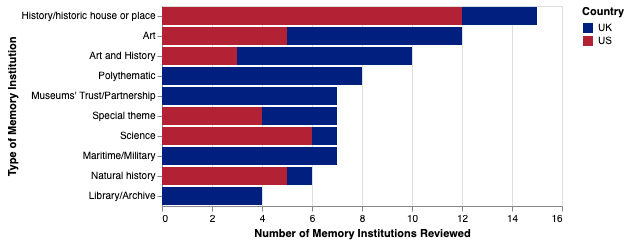
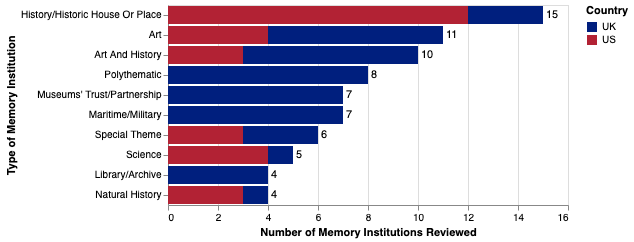
new images with numbers

Changed region(s): [[0.0, 0.0, 0.9952, 0.9835]]

diff --git a/EGauthorGuidelines-GCH2020-sub.tex b/EGauthorGuidelines-GCH2020-sub.tex
@@ -213,7 +213,7 @@ What type of analysis do we use and validity / triangulation (data triangulation
 \section{Data Capture}
 The data capture involved surveying memory institutions’ websites as described above. In total, we surveyed 77 memory institutions both in the UK and the US (48 institutions in the  UK and 29 institutions in the US). The selection included major institutions from both countries (e.g. based on visitor numbers in wikipedia) plus a selection of smaller civic, historic and/or city museums. For this additional selection, we made use of the National Museums Director Council in the UK \cite{nationalmuseums:2020}; and made a selection of smaller museums in different states of the US. For some memory institutions, which are aggregated under an umbrella trust, we surveyed the umbrella organisation as in most cases the COVID response is the same in smaller organisations as in the biggest one of the same consortium/trust (with one or two different resources sometimes).
 
-When surveying, researchers followed a strategy to identify what digital offering was deemed to be a COVID-19 response, as opposed to traditional website content. This was very difficult in some cases, as many institutions repurposed or sign-posted existing content as being COVID-19 relevant. This was not surprising given how relevant memory institutions are for the educational, wellbeing, and self-improving needs of communities. Thus, most organisations restructured their content to address the pandemic by creating COVID-19 “highlights” or “sliders” on their front pages. These new pages allowed users to reach a variety of relevant content instead of reaching the content through the traditional website menu structure. The variety of COVID-19 resources in each institution was vast, and researchers followed these highlighted routes to identify which digital offerings were relevant for the survey.
+When surveying, researchers followed a strategy to identify what digital offering was deemed to be a COVID-19 response, as opposed to traditional website content. This was very difficult in some cases, as many institutions re-purposed or sign-posted existing content as being COVID-19 relevant. This was not surprising given how relevant memory institutions are for the educational, well-being, and self-improving needs of communities. Thus, most organisations restructured their content to address the pandemic by creating COVID-19 “highlights” or “sliders” on their front pages. These new pages allowed users to reach a variety of relevant content instead of reaching the content through the traditional website menu structure. The variety of COVID-19 resources in each institution was vast, and researchers followed these highlighted routes to identify which digital offerings were relevant for the survey.
 
 Furthermore, it was not straightforward to identify the impact that the digital offering had on users. This is because it is difficult to measure access to web pages without having access to museums’ web teams. Exceptions are the number of views on websites such as YouTube, followers in social media, or number of downloads in sites such as SketchFab. However, even these were difficult to directly relate as being COVID-19 specific as most content was available before the lockdown. Instead we undertook a different approach by recording all URL to digital offerings. With these URLs, we were able to query the keywords made available on the web page titles and analyse the popularity of keywords in search queries in Google Search across various regions and languages. 
 
@@ -270,7 +270,7 @@ Also, Table~\ref{tab:digoffer} shows a subtype classification we designed to fur
 \end{table}
 
 \subsection{COVID-19 Audiences}
-As a means to understand which traditional and non-traditional audiences the digital offering which memory institutions provided was being targeted, we created a segmentation of COVID-19 relevant audiences. Although, it will have been possible to adapt existing segmentations used by institutions already \cite{Drot19}; instead we adopted Jones \cite{Audiences2020} proposed COVID-19 audience segmentation. This segmentation takes into account how digital offerings of memory institutions fulfill emotional needs of people affected by the pandemic. As such the classification distinguishes between people who have specific educational (e.g., teachers, learners, parents doing home schooling), wellbeing issues (e.g. lonely or grieving  people, bored), beyond traditional museum audiences (e.g. local community, internal and museum audiences). The types of audiences include: Bored people, Desperate parents \& children, Teachers at sea, Higher education/Professional teaching online, Eager learners, Stressed out/scared people, Grieving people, People who can’t stop working on their job sites, Museum constituencies (specific interest/core audiences for content), Museum members/donors, Local community, Lonely people, Working from Home / Newly unemployed, People wanting to help others, Internal audiences.
+As a means to understand which traditional and non-traditional audiences the digital offering which memory institutions provided was being targeted, we created a segmentation of COVID-19 relevant audiences. Although, it will have been possible to adapt existing segmentations used by institutions already \cite{Drot19}; instead we adopted Jones \cite{Audiences2020} proposed COVID-19 audience segmentation. This segmentation takes into account how digital offerings of memory institutions fulfil emotional needs of people affected by the pandemic. As such the classification distinguishes between people who have specific educational (e.g., teachers, learners, parents doing home schooling), well-being issues (e.g. lonely or grieving  people, bored), beyond traditional museum audiences (e.g. local community, internal and museum audiences). The types of audiences include: Bored people, Desperate parents \& children, Teachers at sea, Higher education/Professional teaching online, Eager learners, Stressed out/scared people, Grieving people, People who can’t stop working on their job sites, Museum constituencies (specific interest/core audiences for content), Museum members/donors, Local community, Lonely people, Working from Home / Newly unemployed, People wanting to help others, Internal audiences.
 
 \subsection{Digital Content}
 To further understand what the digital offering consists of, the survey recorded a description of the offering and a type of content. Although most webpages consists of text and image elements, we also recorded whether the offering included more complex data types, such as video (including live video stream), audio, 360º virtual tour and interactive panorama/VR/AR type experiences, 3D objects or interactive games and activities. The latter visual types of content were of particular interest, as they allow for audiences to engage more actively with the digital offering. They can either allow audiences to explore the collection, and/or to the exhibition physical space; for example, images of the collection, interactive panoramic tours,  behind the scenes audiovisual material, and virtual galleries/visit. Besides being a popular type of content, visual content has some advantages for audiences, such as being more inclusive to multiple understandings and interpretations, as well as overcoming communication barriers, such as language and attention barriers. However, it can also be less accessible for those with disabilities if the content has not been designed appropriately.
@@ -285,11 +285,16 @@ Beside the types previously described, data was also recorded - when available, 
 
 %-------------------------------------------------------------------------
 
-\section{Analysis of digital offering provision }
-The analysis of the data collected allowed us to explore in detail the digital offerings of memory institutions during the COVID-19 lockdown period in order to answer the research questions. To recap, these questions related to: 1) the types of digital offerings, and the nature of the content, which was available to audiences; 2) the types of audiences these offerings targeted; 4) the financial support seeked by museums from audiences; and 3) exploring how the digital offerings matched needs that emerged during the COVID-19 pandemic in particular with regards to peoples’ challenges, including isolation, mental wellbeing and inclusivity. The following subsections will analyse each of these elements, starting by an overview of the museums included in the survey.
+\section{Results of data analysis}
+The analysis of the data collected allowed us to explore in detail the digital offerings of memory institutions during the COVID-19 lockdown period in order to answer the research questions. To recap, these questions related to: 1) the types of digital offerings, and the nature of the content, which was available to audiences; 2) the types of audiences these offerings targeted; 4) the financial support sought by museums from audiences; and 3) exploring how the digital offerings matched needs that emerged during the COVID-19 pandemic in particular with regards to peoples’ challenges, including isolation, mental well-being and inclusivity. 
+
+A total of 874 digital offerings were recorded as offering relevant content for the COVID-19 lockdown amongst all memory institutions. This includes a total of 515 digital offerings in the UK, and 359 digital offerings in the US; with an average of 11 digital offerings per memory institutions. We reiterate that not all of this content was newly created, but could have been highlighted as relevant to the perceived needs of audiences. 
+
+
+The following subsections will analyse different aspects of the data including the memory institutions, the types of offerings, the audiences and financial issues.
 
 \subsection{Memory institutions surveyed}
-As Figure~\ref{fig:MType} illustrates the survey included a good mixture of museums which might be dealing with providing access to collection resources and exhibitions; as well as historic houses which might be dealing with enabling to experience the building itself and its history through the digital offering. 
+As Figure~\ref{fig:MType} illustrates the survey included a mixture of institutions ranging from History/Historic house or place (19\%), Art (14\%), Art and History (13\%), Polythematic (10\%), Museum Trust (9\%), Maritime/Military (9\%), Special Theme (8\%), Science (6\%), Library/Archive (5\%) and Natural History (5\%). Within these variety of institutions, there are representatives of different types of collections, galleries, exhibitions and historic environments; all of which can be experienced through a variety of digital offerings. 
 
 
 \begin{figure}[h]
@@ -307,23 +312,36 @@ As Figure~\ref{fig:MType} illustrates the survey included a good mixture of muse
   %          }
   %
   \caption{\label{fig:MType}
-           Number of different types of memory institutions surveyed}
+           Types of memory institutions surveyed}
 \end{figure}
 
 
 
+Figures~\ref{fig:MTypeAudiences} presents the number of offerings targeted to specific audiences by each type of memory institution both in the UK and the US. The data illustrates the strong emphasis on memory institutions addressing educational needs of audiences during the pandemic, with a strong focus on audiences including teachers, higher education, professional teaching, as well as eager learners in both countries. For instance, the data highlights how \emph{Eager learners} were the most dominant type of audiences with 73\% of digital offerings. Audiences created by COVID-19, such as those grieving (2\%) or wanting to help others, e.g. carers, (1\%) where those less directly targeted by offerings.
 
 \begin{figure}[h]
   \centering
-  \includegraphics[width=\linewidth]{images/audiencesUK.png}
-  \includegraphics[width=\linewidth]{images/audiencesUS.png}
+  \includegraphics[width=\linewidth]{images/audiencesboth.png}
   \caption{\label{fig:MTypeAudiences}
-           Types of Audiences targetted by types of institutions in the UK (top) and in the US (bottom)}
+           Types of audiences targeted by types of institutions }
 \end{figure}
-Figures~\ref{fig:MTypeAudiences} describes the audiences targeted by each type of memory institution, both in the UK (top) and the US (bottom). The graph also shows the number of digital offerings for each combination, with a maximum of approximately 120 digital offerings for eager learners provided by Art as well as Art and History institutions in the UK and approximately 182 digital offerings for Eager Learners by History/Historic House or Place. The data illustrates the strong emphasis on memory institutions addressing educational needs of audiences during the pandemic, with a strong focus on audiences including teachers, higher education, professional teaching, as well as eager learners in both countries. In both countries, there is a clear evidence of having a lesser focus on internal audiences, people wanting to help others, and local communities. 
 
 
-This data confirms the fact that many memory institutions repurposed material, already available, which supports established aims of these institutions (e.g. education); as well as the lack of digital offerings which tackle specific well-being needs and engagement with the local community and internal audiences. Some examples of this latter type of  offerings includes physical activity packs which were offered by the Exeter Royal Albert Memorial Museum \& Art Gallery to shielded, vulnerable and isolated people in the city to help ease lockdown boredom \cite{ex2020}; as well as a ``Cultural First Aid kit'', developed by Manchester Museum, focusing on wellbeing for people in hospitals and care centres \cite{man2020}. 
+Figures~\ref{fig:MTypeOfferings} presents the number of different types of digital offerings provided by types of museums. As the figure shows, digital offerings of \emph{Communication} (42\%) and \emph{Collection} (27\%) type were the most popular. The less explored type of digital offering relates to \emph{Funding}, with only 3\% of the digital offerings related to this aspect. This is somehow surprising given how critical the lack of funding might affect memory institutions post-COVID-19. Although, there is also an element of lack of digital offerings or business models which can allow memory institutions to generate additional funding. Some interesting examples were found, including recipe boxes to buy with all the ingredients and instructions to prepare food at home offered by Birmingham Museum \& Art Gallery; or genealogy search services offered by the Statue of Liberty-Ellis Island Foundation which provided research to trace family history/arrival to America by the institution research staff. Also, there were some museums which generated income by organising ticketed live events, such as the online science camp for pupils organised by California Science Centre.
+
+
+\begin{figure}[h]
+
+  \centering
+  \includegraphics[width=\linewidth]{images/museumoffering.png}
+  \caption{\label{fig:MTypeOfferings}
+           Types of digital offerings provided by types of institutions }
+\end{figure}
+
+This data suggests that most memory institutions focused primordially on traditional audiences;  rather than those newly created during the COVID-19 pandemic, including lonely or grieving people. It also confirms that institutions might have re-purposed material, already available, which support core aims of these institutions as knowledge providers for audiences. As a result, it is noted a lack of digital offerings focusing on tackling specific well-being and emotional needs of these type of audiences. Some interesting example  of this  type of offerings includes physical activity packs which were offered by the Exeter Royal Albert Memorial Museum \& Art Gallery to shielded, vulnerable and isolated people in the city to help ease lockdown boredom \cite{ex2020}; as well as a ``Cultural First Aid kit'', developed by Manchester Museum, focusing on well-being for people in hospitals and care centres \cite{man2020}. 
+
+
+\color{red}Reviewed up to here...\color{black}
 
 % Table~ref
 
@@ -346,12 +364,12 @@ This data confirms the fact that many memory institutions repurposed material, a
 % \end{figure}
 
 
+
 \subsection{Digital offering surveyed}
-A total of 874 digital offerings were recorded as offering relevant content for the COVID-19 lockdown amongst all memory instituions. This includes a total of 515 digital offerings in the UK, and 359 digital offerings in the US; with an average of 11 digital offerings per memory institutions. We reitarate that not all of this content was newly created, but could have been highligted as relevant to the perceived needs of audiences. 
 
 
 
-Figure~\ref{fig:DigOffType} shows the digital offerings recorded classified according their type. The graph illustrates that digital offerings both for providing access to the collection and communicating with audiences were the most popular bothin the UK and the US. This data demonstrates the value which memory institutions place on enabling access to collection content in terms of fullfiling their remite throughout the lockdown period. In addition, memory instutions actively seeked to keep in contact with audiences during the lockdown period. This also confirms that memory institutions responded well to advice to keep communication with audiences via alternative channels of communication through digital tools and platforms. 
+Figure~\ref{fig:DigOffType} shows the digital offerings classified according to their type. The figure illustrates that digital offerings both for providing access to memory institutions' collection and communicating with audiences were the most popular both in the UK and the US. This demonstrates the value which memory institutions place on enabling access to collection content in terms of fulfilling their remit throughout the lockdown period. In addition, memory institutions actively seek to keep in contact with audiences during the lockdown period. This also confirms that memory institutions responded well to advice to keep communication with audiences via alternative channels of communication through digital tools and platforms. 
 
 \begin{figure}[h]
   \centering
@@ -359,11 +377,22 @@ Figure~\ref{fig:DigOffType} shows the digital offerings recorded classified acco
   \caption{\label{fig:DigOffType}
            Types of digital offerings during the COVID-19 period}
 \end{figure}
+
+Figure~\ref{fig:Collection} shows the subtypes of digital offerings for the \emph{Collection} type of digital offering. The total of offerings for guided exploration represented the largest amount. 
 \begin{figure}[h]
   \centering
   \includegraphics[width=\linewidth]{images/collection.png}
-  \caption{\label{fig:DigOffType}
+  \caption{\label{fig:Collection}
            Subtypes of digital offerings of Collection type }
+\end{figure}
+
+
+\begin{figure}[h]
+  \centering
+  \includegraphics[width=\linewidth]{images/emotionalneeds.png}
+  \caption{\label{fig:DigOffType}
+                      Types of content provided to different audiences}
+
 \end{figure}
 
 \color{red}To answer:
